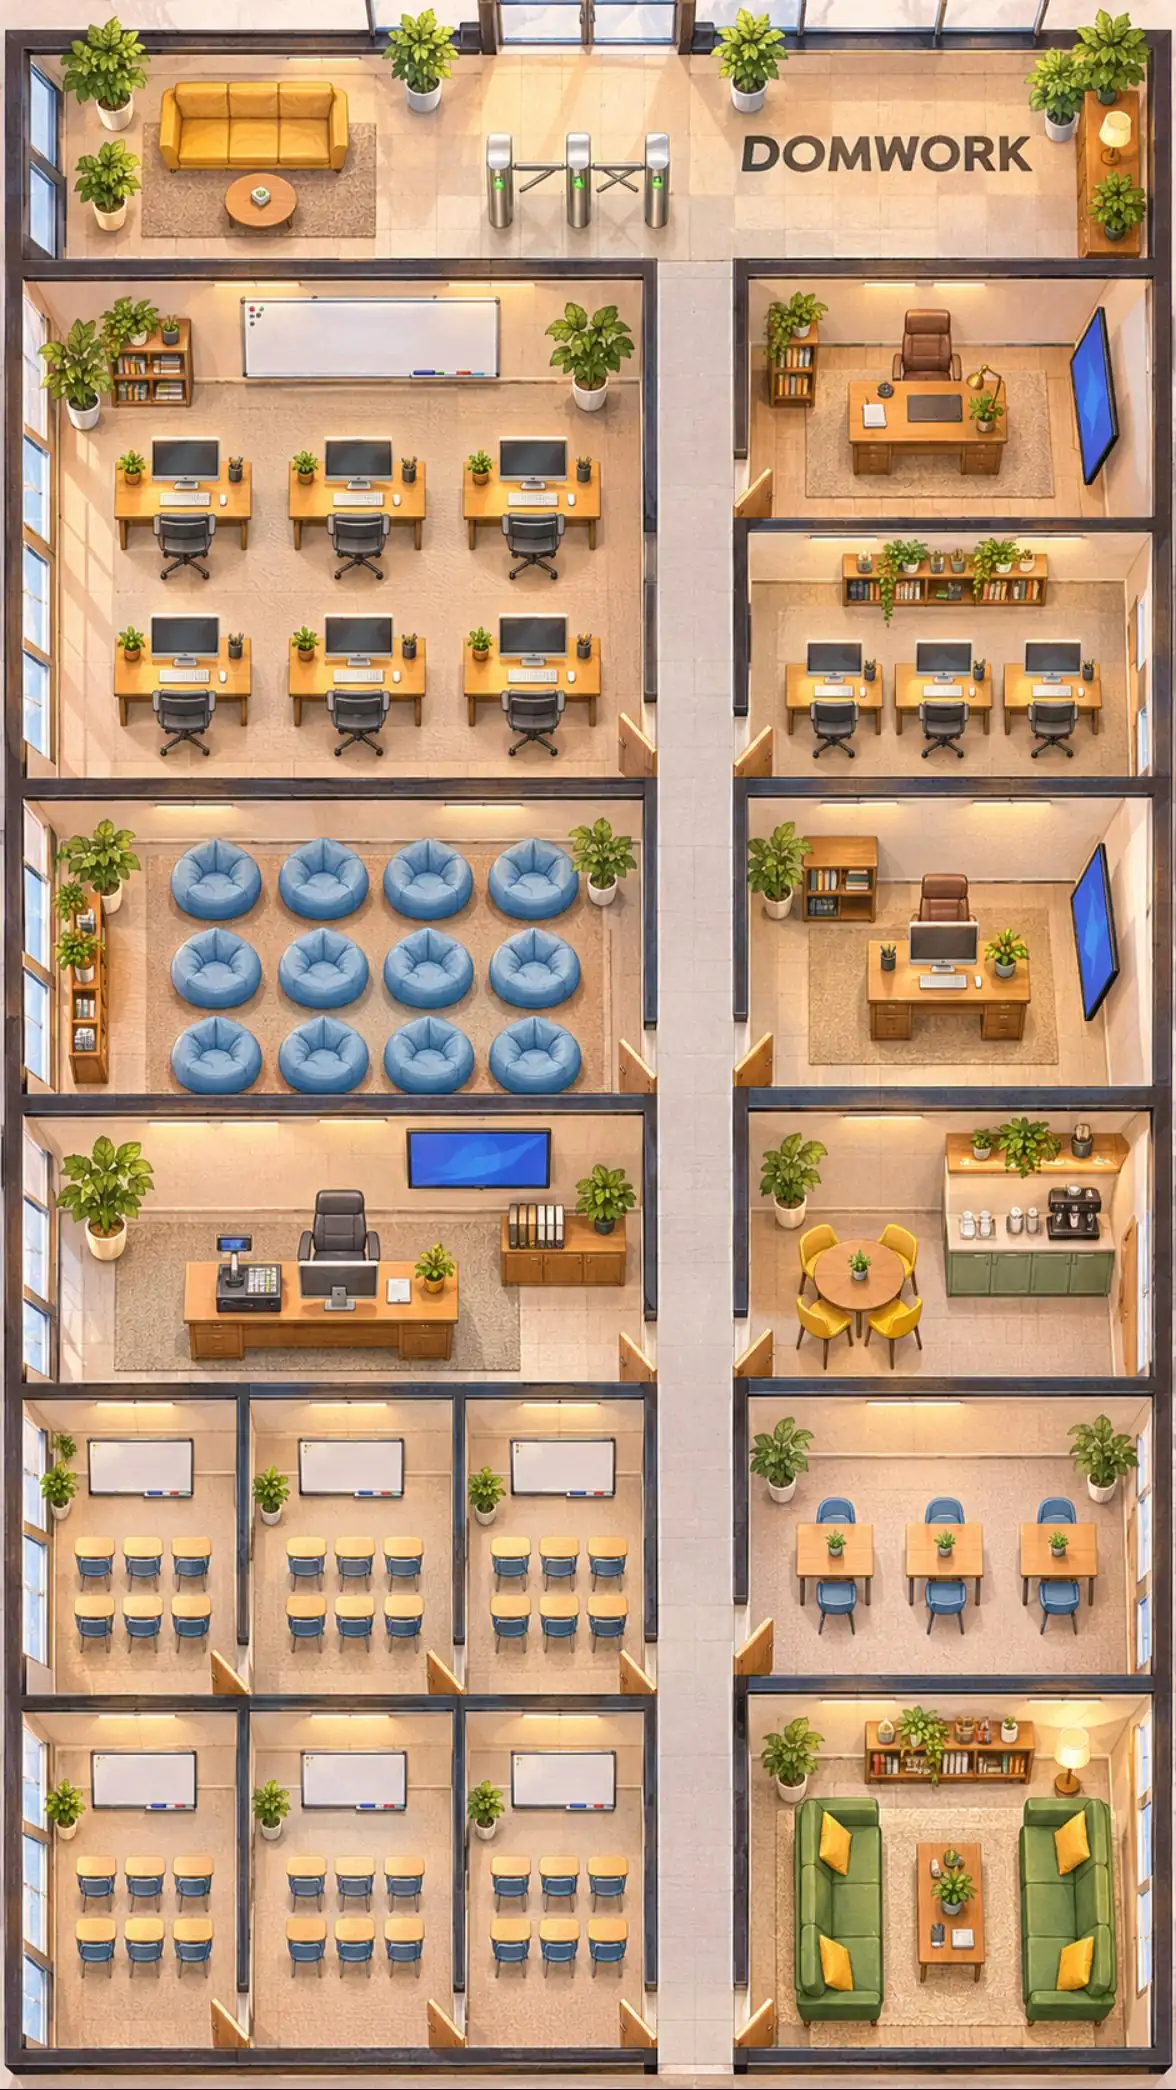
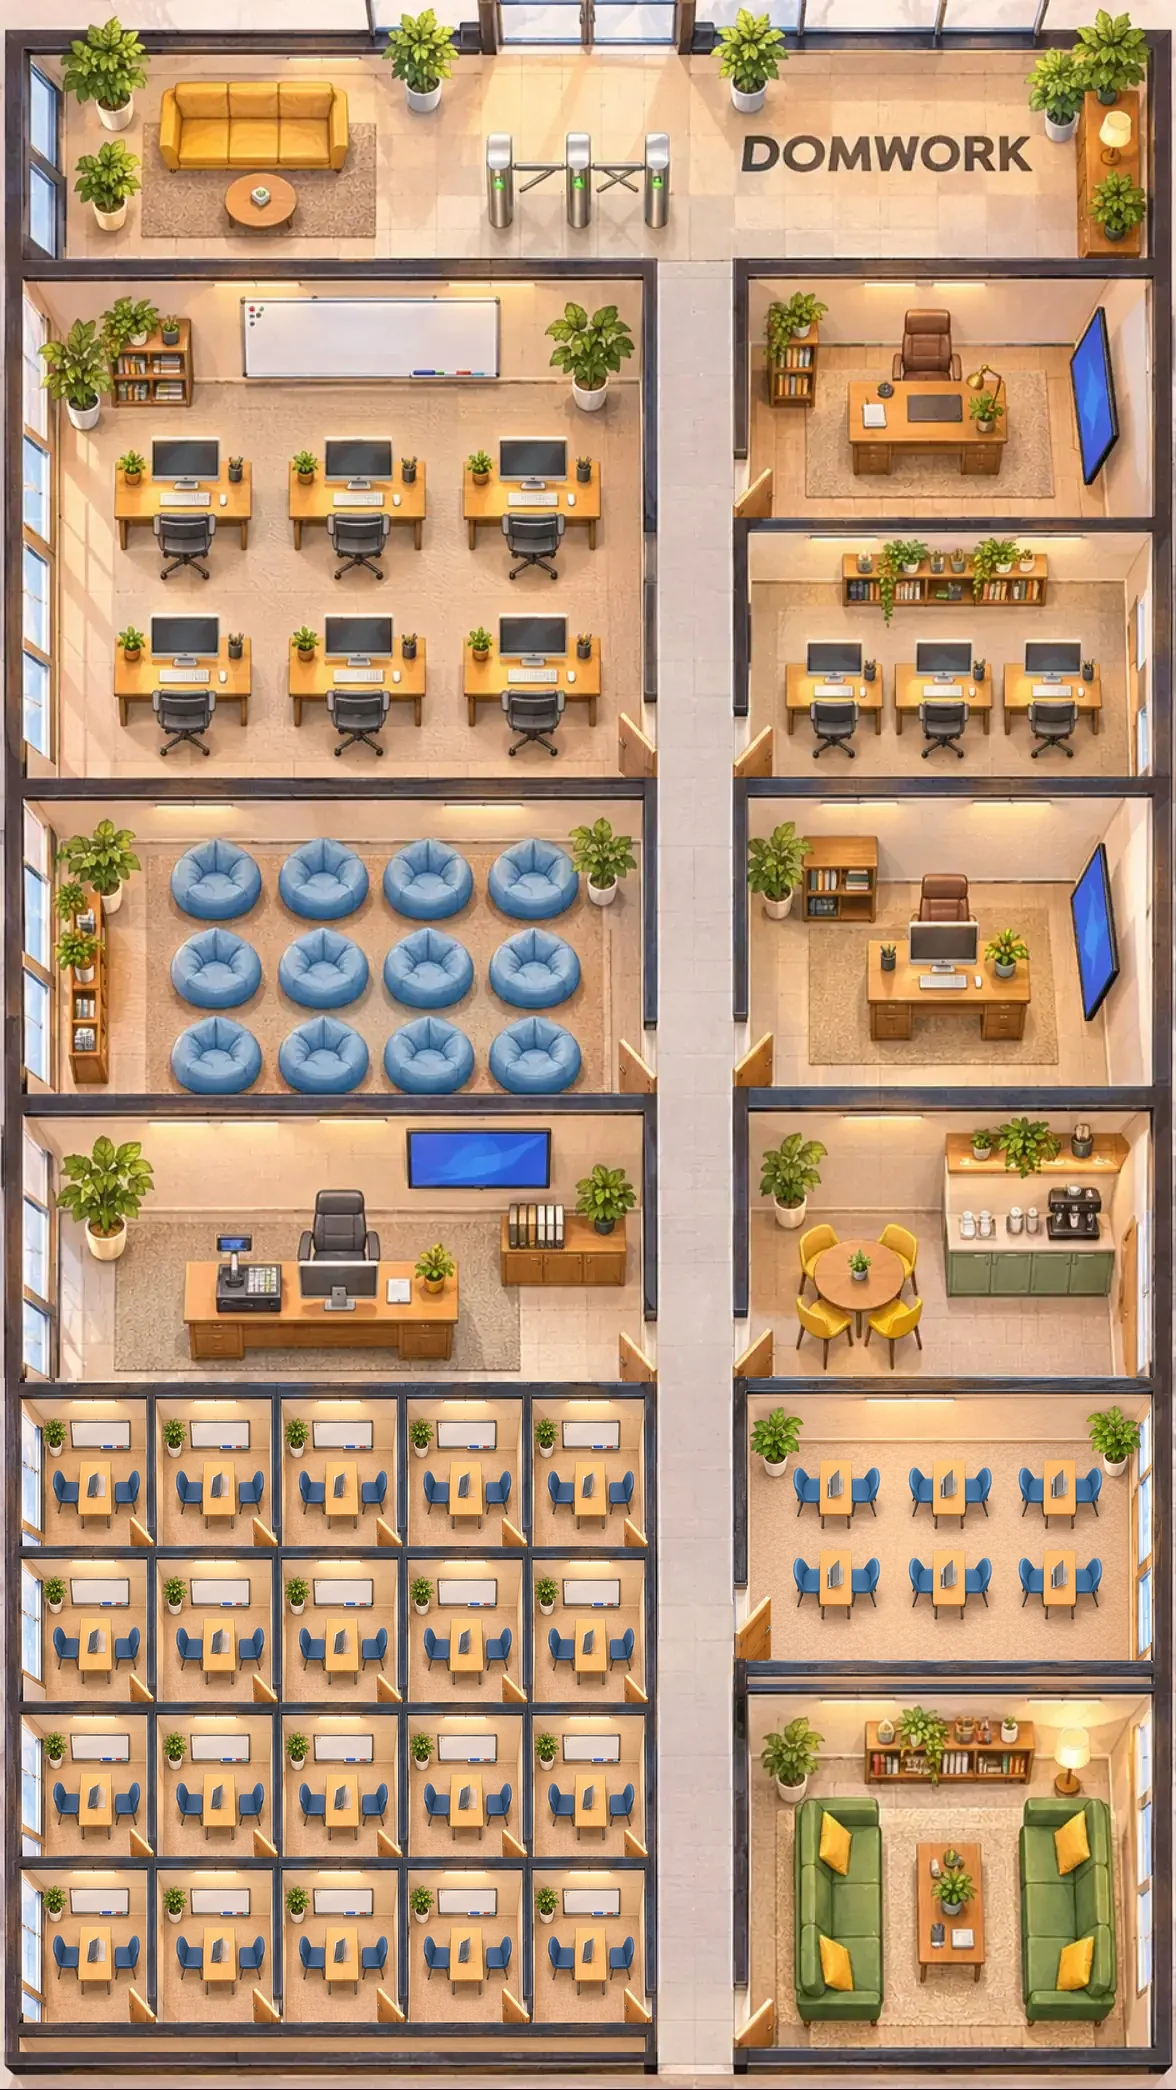
Ofis: 20 ta 1+1 dars kabinkasi va 6 ta sinov stoli

Changed region(s): [[0.0, 0.6531, 0.5816, 0.9952], [0.6122, 0.6531, 1.0, 0.8086]]

diff --git a/ofis/ofis.js b/ofis/ofis.js
@@ -25,8 +25,8 @@ const IMAP={
  hr:{xs:[[515,744],[600,940],[800,1144]],ys:[[530,796],[692,893],[730,1010],[800,1082]]},
  kassa:{xs:[[0,26],[250,340],[495,643]],ys:[[810,1106],[897,1223],[937,1340],[1000,1377]]},
  oshxona:{xs:[[515,744],[660,859],[800,1144]],ys:[[810,1106],[918,1290],[1000,1374]]},
- jonli:{xs:[[0,26],[10,40],[163,238],[171,249],[324,452],[332,465],[485,643],[495,650]],ys:[[1010,1390],[1046,1400],[1224,1688],[1236,1698],[1414,2030],[1430,2038]]},
- sinov:{xs:[[515,744],[580,834],[665,944],[750,1055],[800,1144]],ys:[[1010,1390],[1107,1510],[1143,1588],[1210,1672]]},
+ jonli:{xs:[[0,22],[495,650]],ys:[[1010,1392],[1430,2025]]},
+ sinov:{xs:[[515,744],[800,1150]],ys:[[1010,1390],[1210,1672]]},
  bosh:{xs:[[515,744],[800,1144]],ys:[[1220,1688],[1430,2038]]}};
 const CORY=[[-40,-12],[0,20],[140,256],[150,277],[330,515],[340,530],[520,775],[530,796],[800,1082],[810,1106],[1000,1374],[1010,1390],[1210,1672],[1220,1688],[1430,2038]];
 function amap(pts,v){let i=0;while(i<pts.length-2&&v>pts[i+1][0])i++;const a=pts[i],b=pts[i+1];return a[1]+(v-a[0])*(b[1]-a[1])/(b[0]-a[0])}
@@ -48,8 +48,11 @@ const FEM=/a$|ya$|xon$|oy$|gul|nur|niso|sevar|zuhr|dil|mohi|shah?lo|lola|rano|fe
 const MGR_SEATS=[[85,292],[245,292],[405,292],[85,422],[245,422],[405,422],[160,357],[330,357]];
 const ROP_SEAT=[585,282], AK_SEATS=[[585,437],[670,437],[752,437],[630,480]], HR_SEAT=[600,692];
 const BAGS=[];for(let r=0;r<3;r++)for(let c=0;c<4;c++)BAGS.push([52+c*108,640+r*56]);
-const POD=[];for(let r=0;r<2;r++)for(let c=0;c<3;c++)POD.push({x:10+c*161,y:1046+r*190,w:153,h:178});
-const TRIAL_T=[[580,1107],[665,1107],[750,1107]];
+// Jonli darslar: 20 ta 1+1 kabinka (rasm koordinatalari). Har birida stol, chapda ustoz, o'ngda o'quvchi.
+const CABX=[97,220,343,467,591],CABY=[1488,1645,1800,1953],CWX=[20,151,276,401,528,650],CWY=[1392,1549,1707,1864,2025];
+const CAB=[];for(let r=0;r<4;r++)for(let c=0;c<5;c++)CAB.push({cx:CABX[c],cy:CABY[r],x0:CWX[c],x1:CWX[c+1],y0:CWY[r],y1:CWY[r+1]});
+// Sinov darslari zali: 6 ta 1+1 stol (rasm koordinatalari; ustoz chapda, o'quvchi o'ngda).
+const TRIAL_I=[[836,1485],[950,1485],[1060,1485],[836,1576],[950,1576],[1060,1576]];
 const LOUNGE=[[565,1305],[630,1305],[695,1305],[755,1305],[600,1392],[715,1392],[660,1260]];
 const KITCHEN=[[620,880],[700,880],[620,955],[700,955],[760,915],[560,915]];
 const BENCH=(i)=>[48+(i%9)*19,206];
@@ -84,12 +87,12 @@ function seatFor(s,idx){if(s.kind==='mgr'){const i=idx.mgr++;return ['sotuv',...
 const LUNCH_SEATS=[[560,880],[610,880],[660,880],[710,880],[760,880],[560,950],[610,950],[660,950],[710,950],[760,950]];
 function breakSpot(s,idx){if(s.now==='lunch'||s.now==='lunch_late'){const i=idx.lunch=(idx.lunch||0)+1;return['oshxona',...(LUNCH_SEATS[(i-1)%LUNCH_SEATS.length])]}
  if(s.now==='out'||s.now==='step_late')return['outside'];return null}
-function teacherSpot(t,i){if(t.status==='live'){const c=POD[i%6];return['jonli',c.x+28,c.y+122]}
- if(t.status==='trial'){const k=trialTables.get(t.id)??0;return['sinov',TRIAL_T[k][0],TRIAL_T[k][1]-8]}
+function teacherSpot(t,i){if(t.status==='live'){const c=CAB[i%CAB.length],w=illInv(c.cx-33,c.cy+12);return['jonli',w.x,w.y]}
+ if(t.status==='trial'){const k=trialTables.get(t.id)??0,[tx,ty]=TRIAL_I[k],w=illInv(tx-28,ty+12);return['sinov',w.x,w.y]}
  const l=LOUNGE[i%LOUNGE.length];return['bosh',l[0],l[1]]}
 const trialTables=new Map();
 function assignTrialTables(){const used=new Set();for(const t of data.teachers)if(t.status==='trial'&&trialTables.has(t.id))used.add(trialTables.get(t.id));
- for(const t of data.teachers){if(t.status!=='trial'){trialTables.delete(t.id);continue}if(!trialTables.has(t.id)){let k=[0,1,2].find(x=>!used.has(x));if(k==null)k=0;trialTables.set(t.id,k);used.add(k)}}}
+ for(const t of data.teachers){if(t.status!=='trial'){trialTables.delete(t.id);continue}if(!trialTables.has(t.id)){let k=[0,1,2,3,4,5].find(x=>!used.has(x));if(k==null)k=0;trialTables.set(t.id,k);used.add(k)}}}
 
 const AV=new Map();   // id -> {src,img} — avatar faqat birinchi yuklashda keladi, keyin shu yerda saqlanadi
 function avatarImg(id,src){if(!src)return AV.get(id)?.img||null;let a=AV.get(id);if(!a||a.src!==src){const img=new Image();img.src=src;a={src,img};AV.set(id,a)}return a.img}
@@ -175,7 +178,7 @@ function animateEvent(e){
   case 'call':case 'call_fail':{if(mgr)say(mgr,e.type==='call'?'📞':'📵',e.type==='call'?"Qo'ng'iroq":'Javob yo\'q',6,e.type==='call'?'#1F4FD8':'#B45309');break}
   case 'contacted':if(mgr)say(mgr,'💬',"Bog'landi",5,'#0E7490');break;
   case 'trial_booked':{if(mgr)say(mgr,'📅','Sinov darsi!',5,'#16A34A');if(visitors>=10)break;const p=leadPerson(e);p.bench=null;const tt=people.get('t:'+e.teacherId);
-   const k=trialTables.get(e.teacherId);const [tx,ty]=k!=null?TRIAL_T[k]:TRIAL_T[ri(0,2)];moveTo(p,'sinov',tx,ty+28,()=>{say(p,'🎧','Sinov darsi',8);setTimeout(()=>{if(people.get(p.id))leave(p)},25000)});break}
+   const k=trialTables.get(e.teacherId);const [ix,iy]=TRIAL_I[k!=null?k:ri(0,5)],sw=illInv(ix+28,iy+12),tx=sw.x,ty=sw.y;moveTo(p,'sinov',tx,ty,()=>{say(p,'🎧','Sinov darsi',8);setTimeout(()=>{if(people.get(p.id))leave(p)},25000)});break}
   case 'sale':{const p=leadPerson(e);p.bench=null;moveTo(p,'kassa',250,937,()=>{confetti(250,890,60);say(p,'💳',"To'lov",4);setTimeout(()=>{if(people.has(p.id)){p.shirt='#38BDF8';moveTo(p,'oquv',BAGS[ri(0,11)][0],BAGS[ri(0,11)][1]+20,()=>setTimeout(()=>{people.delete(p.id)},8000))}},1500)});
    if(mgr){say(mgr,'🎉','Sotuv!',8,'#16A34A');confetti(mgr.x,mgr.y-30,40)}catParty();
    const h=`💰 Sotuv! ${esc(nameOf(e.managerId))}`,sub=`${esc(e.lead||'')}`+(e.amount?` · ${money(e.amount)} so'm`:'');toast(h,sub);if(document.body.classList.contains('tv'))bigShow(h,sub);break}
@@ -257,7 +260,7 @@ document.getElementById('toCrm').onclick=()=>{try{if(document.referrer&&new URL(
 cv.addEventListener('click',e=>{const b=cv.getBoundingClientRect();const X=(e.clientX-b.left)/cam.s+cam.x,Y=(e.clientY-b.top)/cam.s+cam.y;
  let best=null,bd=1e9;const tol=Math.max(20,26/cam.s);for(const p of people.values()){if(!p.visible)continue;const q=ill(p.x,p.y);const d=Math.hypot(q.x-X,q.y-22-Y);if(d<tol&&d<bd){bd=d;best=p}}
  if(best&&(zoomRoom||cam.s>.62)){openCard(best);return}
- if(zoomRoom==='jonli'){const w=illInv(X,Y);const ci=POD.findIndex(c=>w.x>=c.x&&w.x<=c.x+c.w&&w.y>=c.y&&w.y<=c.y+c.h);if(ci>=0&&data.teachers[ci]){openCard(people.get('t:'+data.teachers[ci].id));return}}
+ if(zoomRoom==='jonli'){const ci=CAB.findIndex(c=>X>=c.x0&&X<=c.x1&&Y>=c.y0&&Y<=c.y1);if(ci>=0&&data.teachers[ci]){openCard(people.get('t:'+data.teachers[ci].id));return}}
  const w=illInv(X,Y);for(const k in R){const r=R[k];if(w.x>=r.x&&w.x<=r.x+r.w&&w.y>=r.y&&w.y<=r.y+r.h){zoomTo(zoomRoom===k?null:k);return}}zoomTo(null)});
 
 // ── Chizish ──
@@ -304,15 +307,16 @@ function render(){
   const k=data.kpi;
   chip(150,1062,`📱 Faol ${k.students} · ilovada ${k.online} · bugun ${k.appLessons} dars qismi · ${k.exams} imtihon`,'rgba(20,33,61,.82)','#fff');
   chip(950,1400,`🎧 Hozir: ${k.trialNow} sinov`,'#1F4FD8','#fff');chip(950,1698,`☕ Bo'sh: ${k.freeTeachers} ustoz`,'#15803D','#fff');
-  // guruh xonalari doskasi
-  const BX=[141,352,562],BY=[1468,1777],CY=[[1557,1609],[1865,1923]];
-  data.teachers.slice(0,6).forEach((t,i)=>{const c=i%3,r=Math.floor(i/3),bx=BX[c],by=BY[r],live=t.status==='live';
-   ctx.fillStyle='rgba(255,255,255,.96)';rr(bx-52,by-27,104,54,5);ctx.fill();ctx.textAlign='center';ctx.fillStyle='#14213D';ctx.font='900 12.5px Nunito';ctx.fillText(t.name,bx,by-10);
-   const s=live?['#DC2626',`LIVE · ${t.nowStudents.length} o'q.`]:t.status==='trial'?['#1F4FD8','Sinov darsida']:['#94A3B8',"Bo'sh"];
-   ctx.font='900 10px Nunito';const w=ctx.measureText(s[1]).width+14;ctx.fillStyle=s[0];rr(bx-w/2,by-3,w,15,7.5);ctx.fill();ctx.fillStyle='#fff';ctx.fillText(s[1],bx,by+8);
-   const d=t.dav==='ok'?['#15803D','✅ davomat']:t.dav==='pending'?['#B45309','⏳ davomat']:null;if(d){ctx.font='800 9px Nunito';ctx.fillStyle=d[0];ctx.fillText(d[1],bx,by+22)}
-   if(live)t.nowStudents.slice(0,6).forEach((sd,j)=>{const x=bx+[-46,2,49][j%3],y=CY[r][Math.floor(j/3)]-14,h=hash(sd.id);ctx.fillStyle=SH[j%SH.length];rr(x-9,y+4,18,14,6);ctx.fill();
-    face(x,y,{skin:SKIN[h%4],hair:HAIR[(h>>3)%4],female:FEM.test(sd.name)},9)});ctx.textAlign='left'});
+  // kabinka doskalari: ustoz ismi, holat, davomat; darsdagi o'quvchi o'ng stulda
+  data.teachers.slice(0,CAB.length).forEach((t,i)=>{const c=CAB[i],bx=c.cx+4,by=c.cy-70,live=t.status==='live';
+   ctx.fillStyle='rgba(255,255,255,.96)';rr(bx-50,by-17,100,36,6);ctx.fill();ctx.textAlign='center';ctx.fillStyle='#14213D';ctx.font='900 11px Nunito';ctx.fillText(t.name,bx,by-4);
+   const s=live?['#DC2626',t.nowStudents.length>1?`LIVE · ${t.nowStudents.length} o'q.`:'LIVE']:t.status==='trial'?['#1F4FD8','Sinovda']:['#94A3B8',"Bo'sh"];
+   ctx.font='900 9px Nunito';const w=ctx.measureText(s[1]).width+12;ctx.fillStyle=s[0];rr(bx-w/2,by+2,w,13,6.5);ctx.fill();ctx.fillStyle='#fff';ctx.fillText(s[1],bx,by+11.5);
+   if(t.dav==='ok'||t.dav==='pending'){ctx.font='11px sans-serif';ctx.fillText(t.dav==='ok'?'✅':'⏳',bx+44,by-4)}
+   if(live&&t.nowStudents.length){const sd=t.nowStudents[0],x=c.cx+33,y=c.cy-8,h=hash(sd.id);ctx.fillStyle=SH[h%SH.length];rr(x-10,y+4,20,16,7);ctx.fill();
+    face(x,y,{skin:SKIN[h%4],hair:HAIR[(h>>3)%4],female:FEM.test(sd.name)},10);
+    if(t.nowStudents.length>1){ctx.fillStyle='#DC2626';ctx.beginPath();ctx.arc(x+12,y-10,8,0,7);ctx.fill();ctx.fillStyle='#fff';ctx.font='900 9px Nunito';ctx.fillText('+'+(t.nowStudents.length-1),x+12,y-7)}}
+   ctx.textAlign='left'});
  }
  const list=[...people.values()].filter(p=>p.visible).map(p=>({p,q:ill(p.x,p.y)})).sort((a,b)=>a.q.y-b.q.y);
  for(const {p,q} of list){ctx.save();ctx.translate(q.x,q.y);ctx.scale(1.4,1.4);ctx.translate(-p.x,-p.y);drawPerson(p);ctx.restore()}
@@ -333,7 +337,6 @@ function overlay(list){const small=cw<600&&!zoomRoom;ctx.textAlign='left';ctx.fo
 
 // ── Qo'shimchalar: termometr, ogohlantirish, kun-tun, ob-havo, bayramlar ──
 const ROPSCR={x:1072,y:312,w:44,h:170};   // rasmdagi ROP xonasi devor ekrani
-const PODB=[[141,1468],[352,1468],[562,1468],[141,1777],[352,1777],[562,1777]];
 let planCelebrated=false,alerted=new Set();
 function plan(d,animate){const p=d.kpi.plan;if(!p)return;if(p.pct>=100&&!planCelebrated){planCelebrated=true;if(animate){feed('🏆',"Oylik reja bajarildi! Butun jamoaga rahmat!",'#16A34A');
  toast('🏆 Oylik reja bajarildi!',p.pct+'%');for(let i=0;i<8;i++)setTimeout(()=>confetti(rnd(40,760),rnd(200,1300),50),i*300);SND.ev('💰');setTimeout(()=>SND.voice('reja'),6500)}}}
@@ -353,7 +356,7 @@ function drawExtras(){if(!data)return;const k=data.kpi,now=performance.now();
   const hh=(r.h-26)*pc;ctx.fillStyle=g;rr(r.x+14,r.y+4+(r.h-26)-hh+2,16,hh,8);ctx.fill();ctx.beginPath();ctx.arc(r.x+22,r.y+r.h-8,12,0,7);ctx.fill();
   ctx.fillStyle='#fff';ctx.font='900 13px Nunito';ctx.textAlign='center';ctx.fillText(k.plan.pct+'%',r.x+22,r.y+r.h+20);ctx.font='800 8px Nunito';ctx.fillStyle='#93C5FD';ctx.fillText('OYLIK REJA',r.x+22,r.y-12+0)}
  // Davomat kutilayotgan guruh xonasi miltillaydi
- data.teachers.slice(0,6).forEach((t,i)=>{if(t.dav!=='pending')return;const [bx,by]=PODB[i];ctx.save();ctx.globalAlpha=.25+.25*Math.sin(now/250);ctx.strokeStyle='#DC2626';ctx.lineWidth=6;rr(bx-100,by-60,200,190,10);ctx.stroke();ctx.restore()});
+ data.teachers.slice(0,CAB.length).forEach((t,i)=>{if(t.dav!=='pending')return;const c=CAB[i];ctx.save();ctx.globalAlpha=.25+.25*Math.sin(now/250);ctx.strokeStyle='#DC2626';ctx.lineWidth=5;rr(c.x0+3,c.y0+3,c.x1-c.x0-6,c.y1-c.y0-6,8);ctx.stroke();ctx.restore()});
  // Kutib qolgan lidlar: skameyka ustida qizil soat
  const w=k.waiting||[];if(w.length){const q=ill(120,206);ctx.save();ctx.globalAlpha=.6+.4*Math.sin(now/220);ctx.font='26px sans-serif';ctx.textAlign='center';ctx.fillText('⏰',q.x-60,q.y+18);ctx.restore();
   ctx.fillStyle='#DC2626';rr(q.x-40,q.y-2,170,24,12);ctx.fill();ctx.fillStyle='#fff';ctx.font='900 12px Nunito';ctx.textAlign='left';ctx.fillText(`${w.length} ta lid 30+ daq kutyapti`,q.x-30,q.y+15)}
